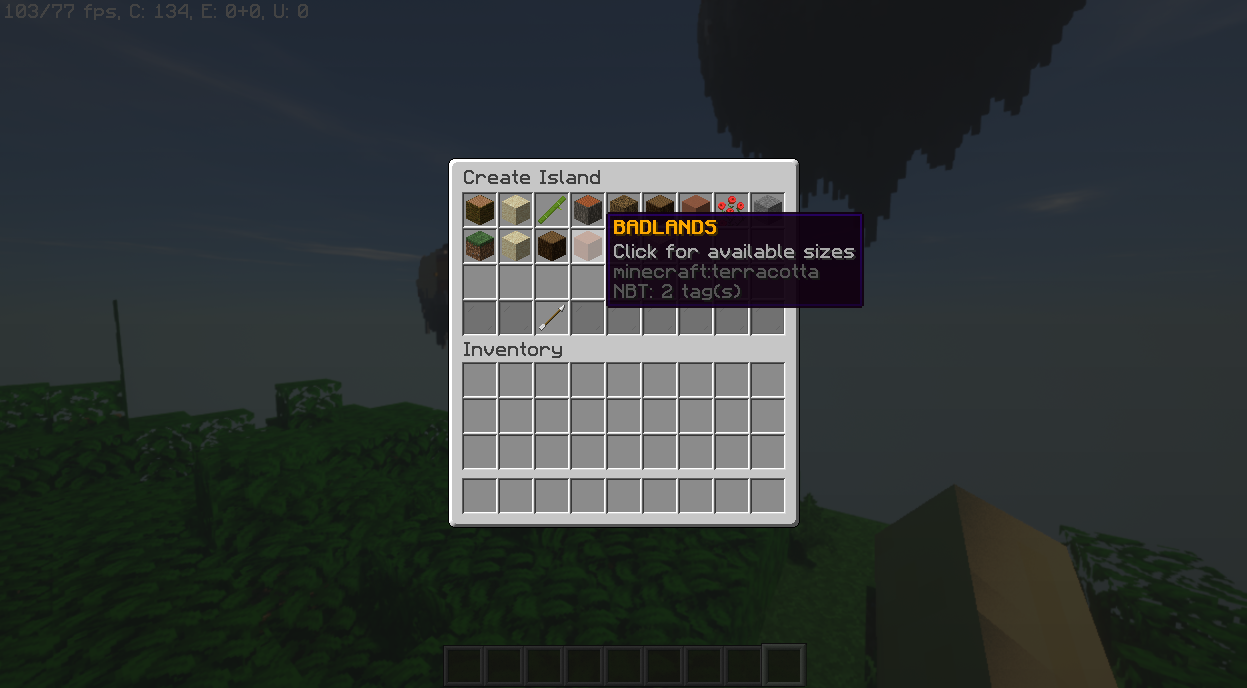
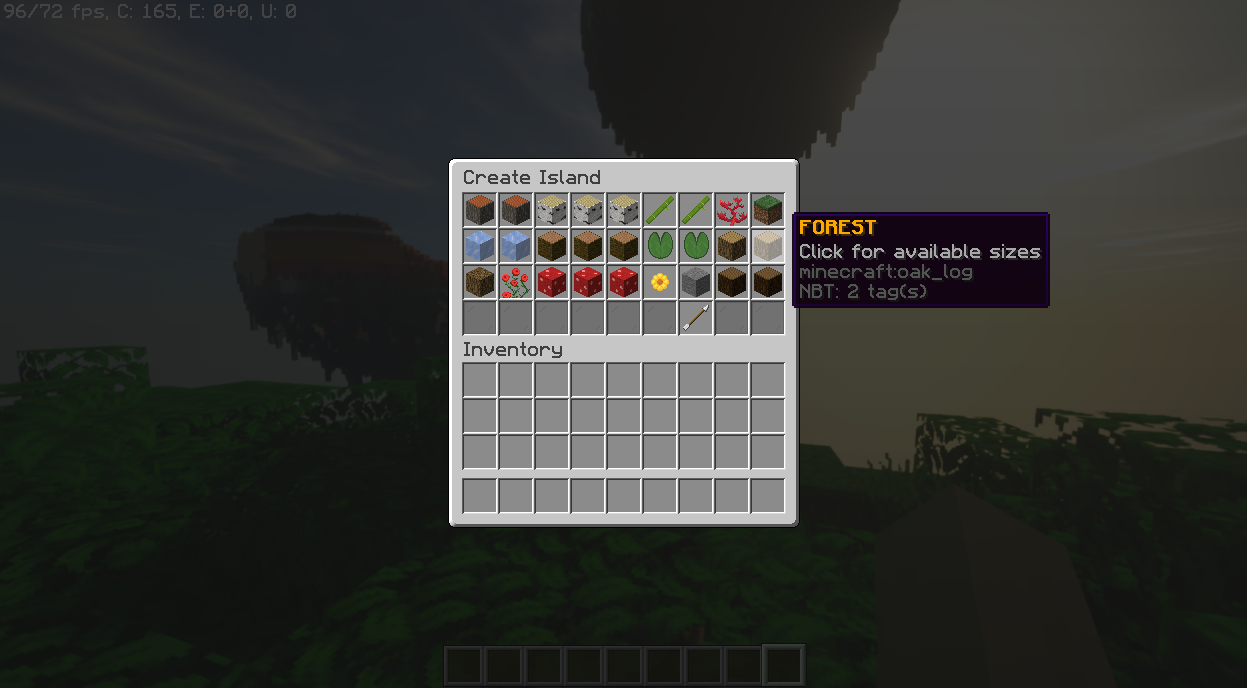
Create gui is sorted now

diff --git a/src/me/aleksilassila/islands/GUIs/CreateGUI.java b/src/me/aleksilassila/islands/GUIs/CreateGUI.java
@@ -3,6 +3,7 @@ package me.aleksilassila.islands.GUIs;
 import com.github.stefvanschie.inventoryframework.Gui;
 import com.github.stefvanschie.inventoryframework.GuiItem;
 import com.github.stefvanschie.inventoryframework.pane.StaticPane;
+import com.mysql.fabric.xmlrpc.base.Array;
 import me.aleksilassila.islands.Islands;
 import me.aleksilassila.islands.utils.BiomeMaterials;
 import me.aleksilassila.islands.utils.Messages;
@@ -13,6 +14,7 @@ import org.bukkit.block.Biome;
 import org.bukkit.entity.Player;
 
 import java.util.ArrayList;
+import java.util.Comparator;
 import java.util.HashMap;
 import java.util.List;
 
@@ -56,10 +58,14 @@ public class CreateGUI extends PageGUI {
 
         HashMap<Biome, List<Location>> availableLocations = plugin.islandGeneration.biomes.availableLocations;
 
+        List<Biome> sortedSet = new ArrayList<>(availableLocations.keySet());
+
+        sortedSet.sort(Comparator.comparingDouble(a -> BiomeMaterials.valueOf(a.name()).getMaterial().name().charAt(0) + 1 / (double) BiomeMaterials.valueOf(a.name()).getMaterial().name().charAt(1)));
+
         StaticPane pane = new StaticPane(0, 0, 9, PAGE_HEIGHT - 1);
 
         int itemCount = 0;
-        for (Biome biome : availableLocations.keySet()) {
+        for (Biome biome : sortedSet) {
             if (pane.getItems().size() >= (PAGE_HEIGHT - 1) * 9) {
                 panes.add(pane);
                 pane = new StaticPane(0, 0, 9, PAGE_HEIGHT - 1);
